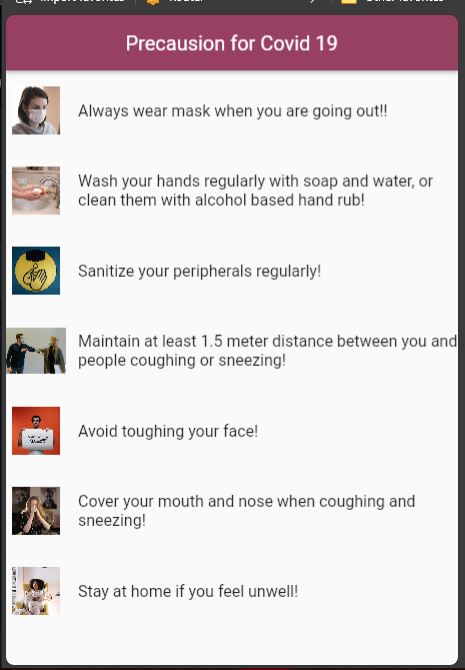
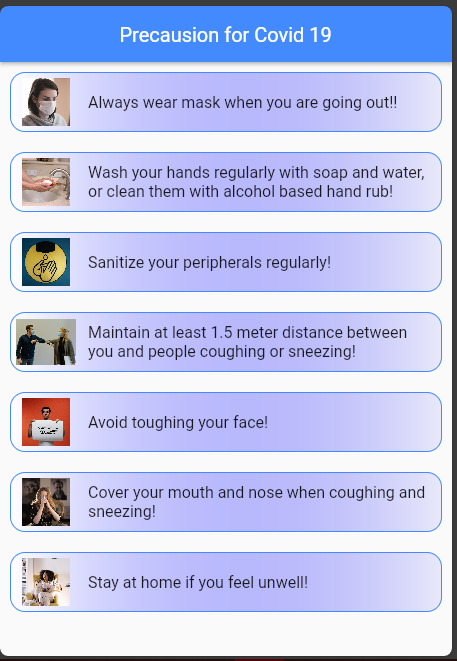
updated home

diff --git a/lib/screens/testHomepage.dart b/lib/screens/testHomepage.dart
@@ -1,19 +1,19 @@
 import 'package:flutter/cupertino.dart';
 import 'package:flutter/material.dart';
 
-class homePage extends StatefulWidget {
-  const homePage({super.key});
+class testHomePage extends StatefulWidget {
+  const testHomePage({super.key});
 
   @override
-  State<homePage> createState() => _homePageState();
+  State<testHomePage> createState() => _testHomePageState();
 }
 
-class _homePageState extends State<homePage> {
+class _testHomePageState extends State<testHomePage> {
   @override
   Widget build(BuildContext context) {
     return Scaffold(
       appBar: AppBar(
-        title: const Text("Precausion for Covid 19"),
+        title: Text("Precausion for Covid 19"),
         centerTitle: true,
         backgroundColor: Colors.blueAccent,
       ),
@@ -33,28 +33,28 @@ class _homePageState extends State<homePage> {
             // Image.asset('assets/images/img.jpg')
           ],
         ),
-
+        
       ),
     );
   }
 }
 Widget covidPrecautionItems(String imagePath,String innterText,){
   return Container(
-    margin: const EdgeInsets.symmetric(horizontal: 10,vertical: 10),
-    decoration: BoxDecoration(
+      margin: const EdgeInsets.symmetric(horizontal: 10,vertical: 10),
+      decoration: BoxDecoration(
         border: Border.all(color: Colors.blueAccent),
         borderRadius: BorderRadius.circular(15),
         gradient: const LinearGradient(
-            colors: [Color(0xFFFFFFFF),Color(0x110000FF)]
+          colors: [Color(0xFFFFFFFF),Color(0x110000FF)],
         )
-    ),
-    child: ListTile(
-      contentPadding: const EdgeInsets.symmetric(vertical: 5,horizontal: 5),
-      leading: Image.asset(
-        imagePath,
-        width: 60,
-      ) ,
-      title: Text(innterText),
-    ),
+      ),
+      child: ListTile(
+        contentPadding: const EdgeInsets.symmetric(vertical: 5,horizontal: 5),
+        leading: Image.asset(
+          imagePath,
+          width: 60,
+        ) ,
+        title: Text(innterText),
+      ),
   );
 }

diff --git a/lib/main.dart b/lib/main.dart
@@ -1,5 +1,6 @@
 import 'package:covidprecoution/screens/homepage.dart';
 import 'package:covidprecoution/screens/testFile.dart';
+import 'package:covidprecoution/screens/testHomepage.dart';
 import 'package:flutter/material.dart';
 
 void main() {

diff --git a/README.md b/README.md
@@ -10,11 +10,11 @@ This project is a starting point for a Flutter application.
 
 A few resources to get you started if this is your first Flutter project:
 
-- [<a href="https://docs.flutter.dev/get-started/codelab"> <strong>Lab:</strong> Write your first Flutter app </a>]
+- [<a href="https://docs.flutter.dev/get-started/codelab"> <strong>Lab:</strong> Write your first Flutter app</a>]
 - [<a href="https://docs.flutter.dev/cookbook" > <strong>Cookbook:</strong> Useful Flutter samples</a>]
 
 For help getting started with Flutter development, view the
-[<a href="https://docs.flutter.dev/" >online documentation </a>], which offers tutorials,
+[<a href="https://docs.flutter.dev/" >online documentation</a>], which offers tutorials,
 samples, guidance on mobile development, and a full API reference.
   
 </pre>
